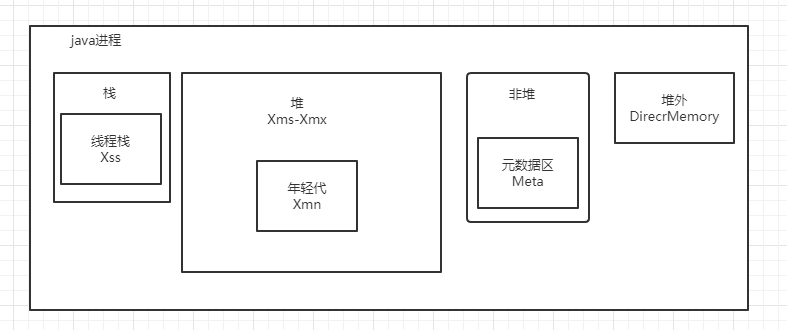
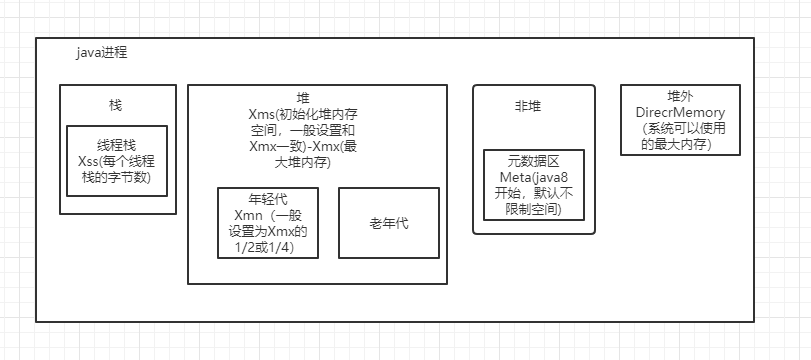
第一周作业优化 1.作业2增加适配包名路径 2.作业3补充各参数说明

diff --git a/src/main/java/com/jvm/taskw102/OwnClassLoader.java b/src/main/java/com/jvm/taskw102/OwnClassLoader.java
@@ -22,6 +22,8 @@ public class OwnClassLoader extends ClassLoader {
     @Override
     protected Class<?> findClass(String name) throws ClassNotFoundException {
         String suffix = ".xlass";
+        // 增加包名路径转换
+        name = name.replace(".", "/");
         InputStream inputStream = this.getClass().getClassLoader().getResourceAsStream(name + suffix);
         try{
             int length = inputStream.available();
